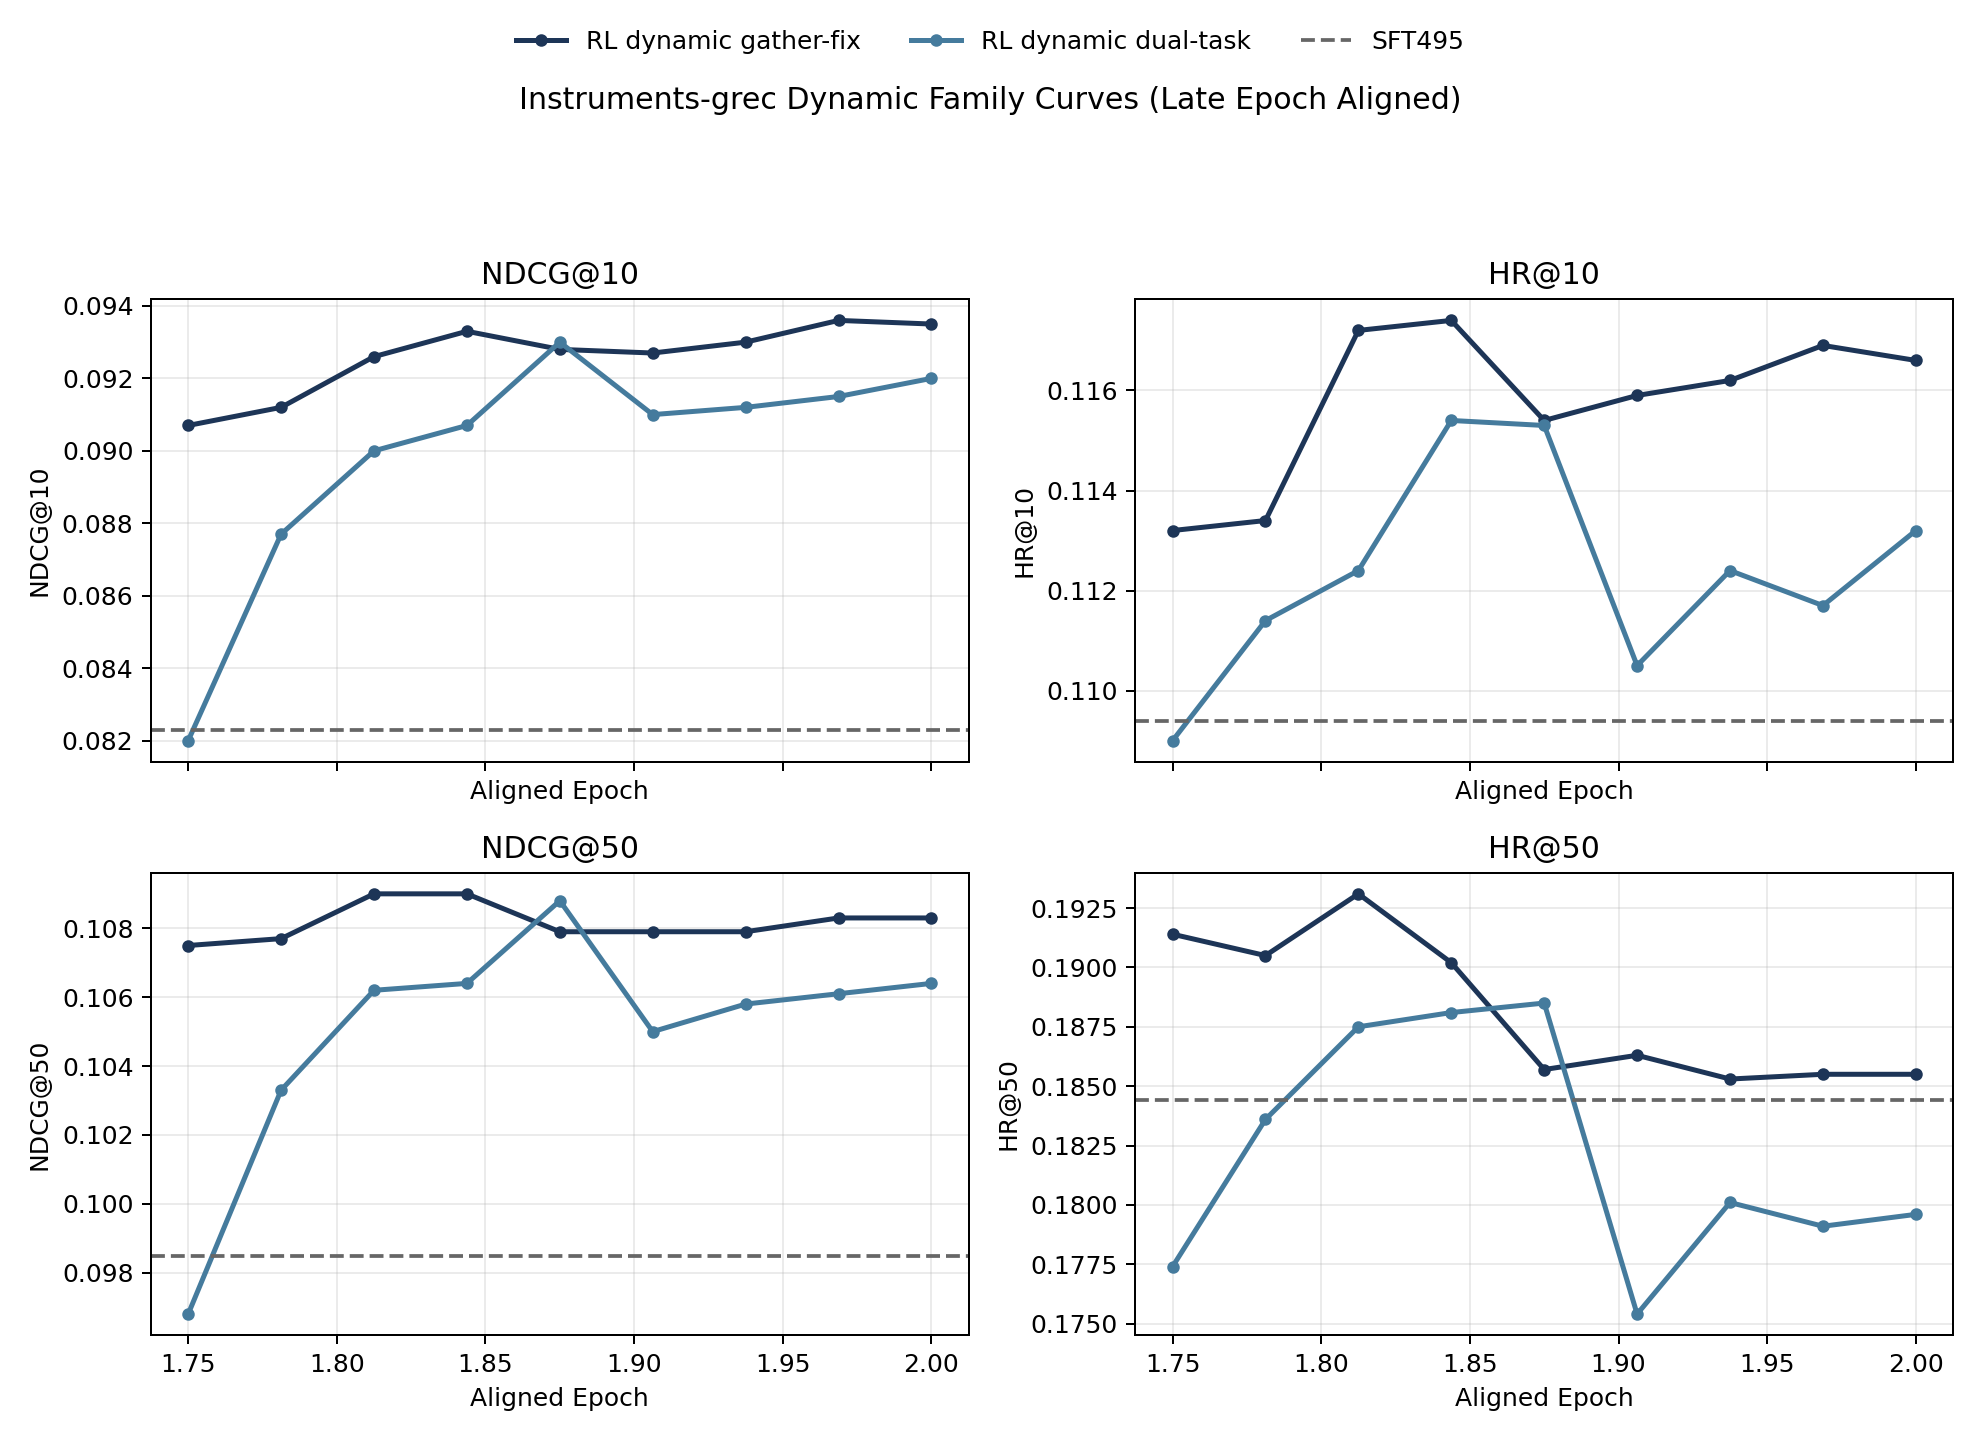
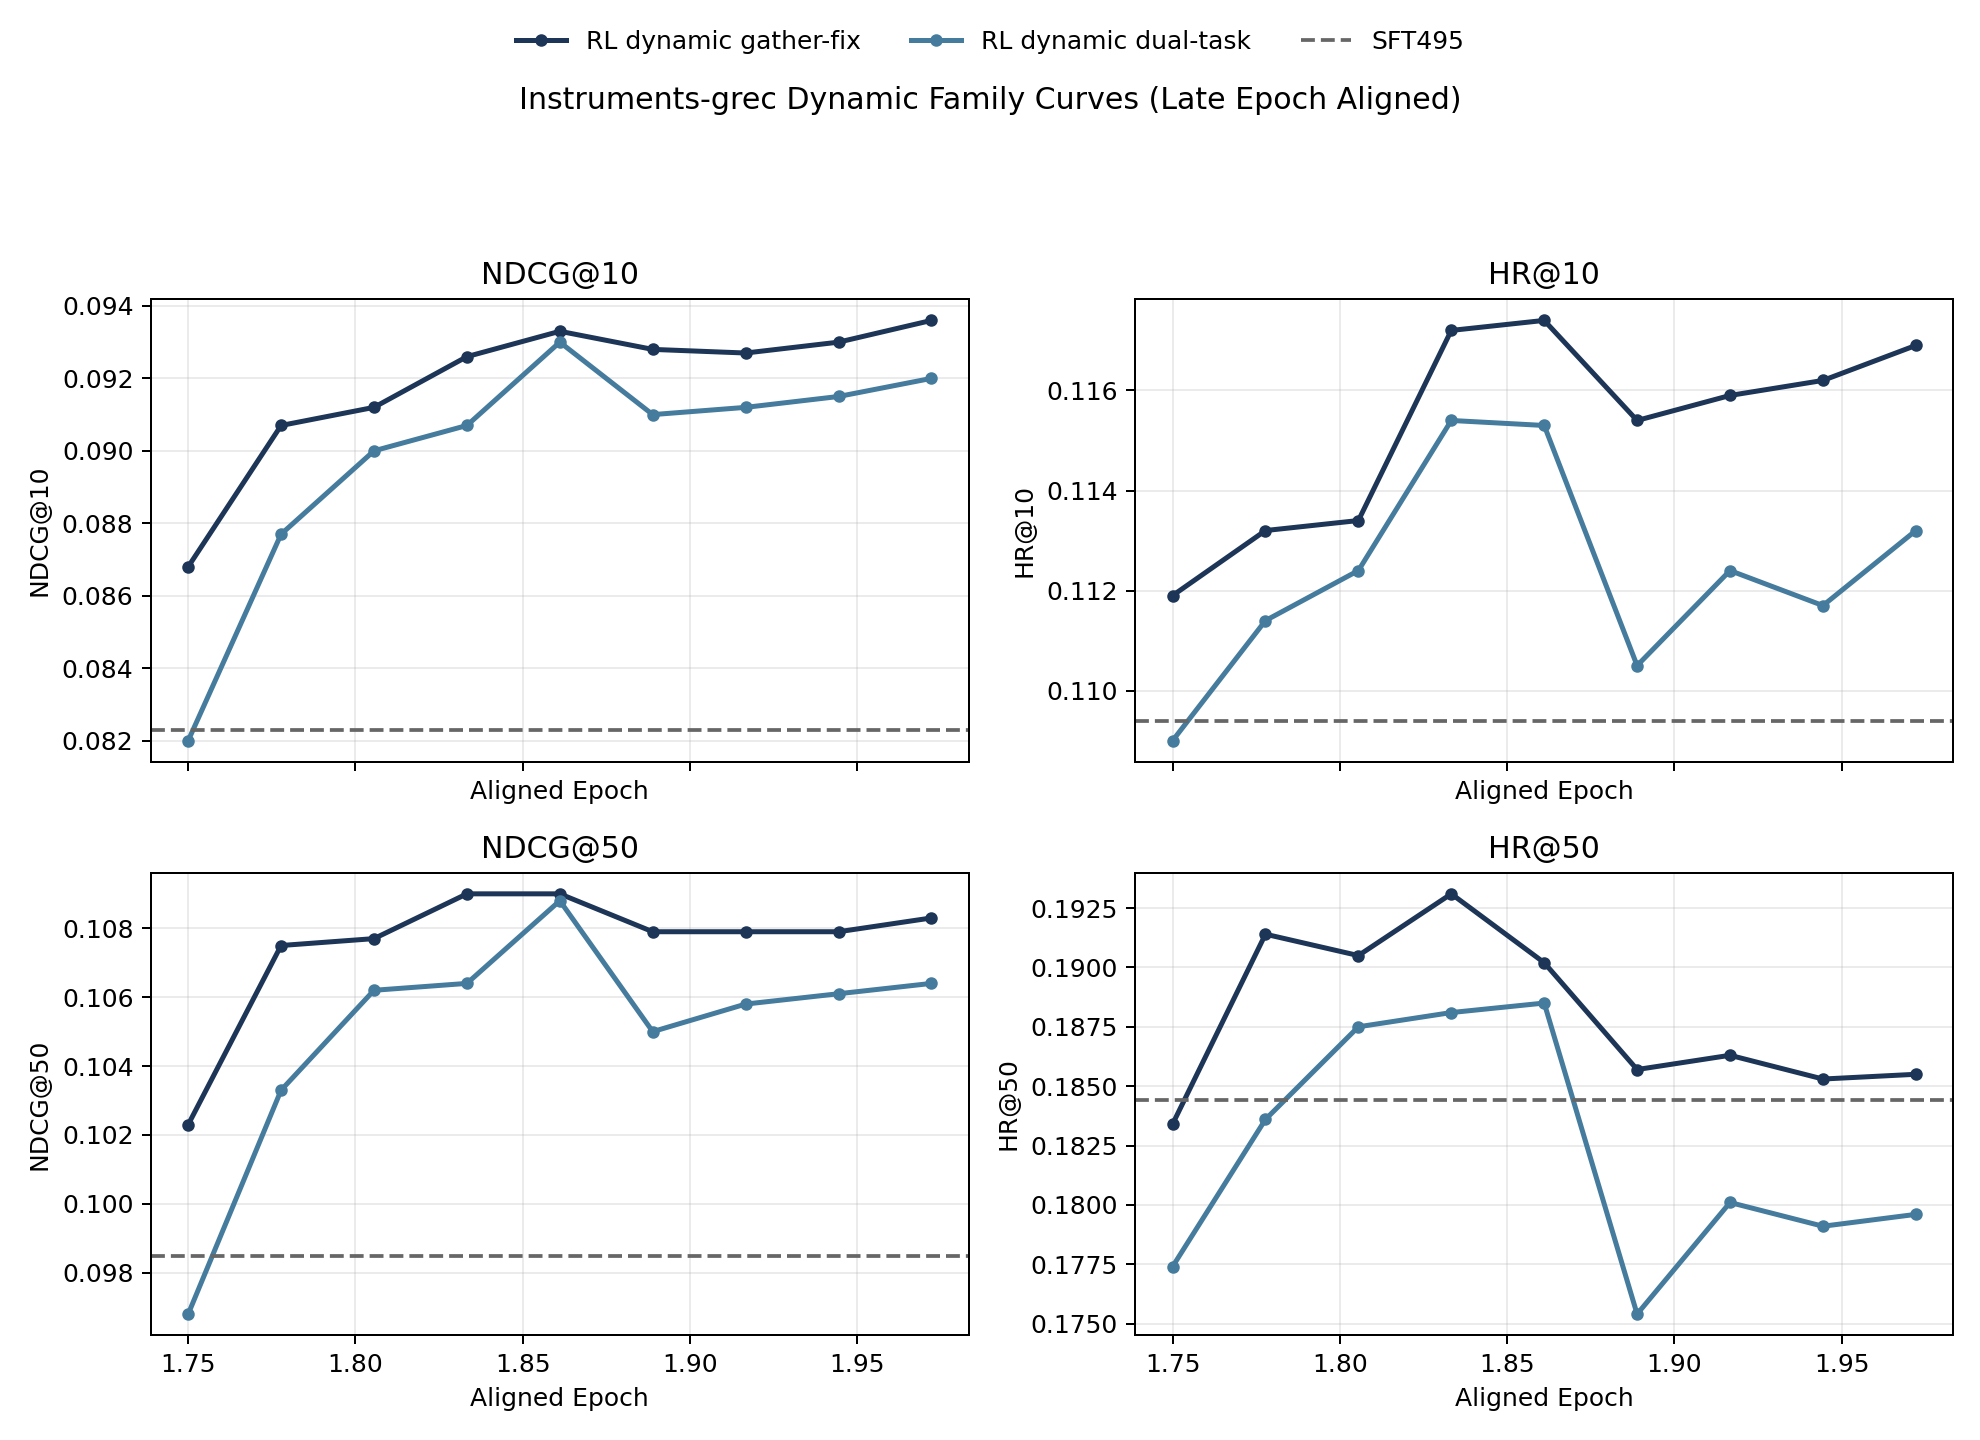
fix(reporting): drop pending final aligned slot

diff --git a/tests/test_generate_instruments_dual_task_single_hint_assets.py b/tests/test_generate_instruments_dual_task_single_hint_assets.py
@@ -90,7 +90,7 @@ class GenerateInstrumentsDualTaskSingleHintAssetsTests(unittest.TestCase):
             self.assertEqual(sid_only_last["max_step"], 2652)
             self.assertAlmostEqual(sid_only_last["epoch_progress"], 2.0, places=6)
 
-    def test_late_alignment_uses_dynamic_dual_point_count_and_tail_order(self):
+    def test_late_alignment_uses_generated_prefix_and_keeps_final_slot_pending(self):
         module = _load_module()
 
         rows = []
@@ -141,13 +141,13 @@ class GenerateInstrumentsDualTaskSingleHintAssetsTests(unittest.TestCase):
         self.assertEqual(len(dynamic_dual_df), 9)
         self.assertEqual(dynamic_dual_df["step"].tolist(), [302, 604, 906, 1208, 1510, 1812, 2114, 2416, 2718])
         self.assertAlmostEqual(dynamic_dual_df.iloc[0]["aligned_epoch"], 1.75, places=6)
-        self.assertAlmostEqual(dynamic_dual_df.iloc[-1]["aligned_epoch"], 2.0, places=6)
+        self.assertAlmostEqual(dynamic_dual_df.iloc[-1]["aligned_epoch"], 1.9722222222222223, places=6)
 
         single_hint_df = aligned_df[aligned_df["variant_key"] == "single_hint_mixed"].sort_values("aligned_epoch")
         self.assertEqual(len(single_hint_df), 9)
-        self.assertEqual(single_hint_df["step"].tolist(), [666, 999, 1332, 1665, 1998, 2331, 2664, 2997, 3326])
+        self.assertEqual(single_hint_df["step"].tolist(), [333, 666, 999, 1332, 1665, 1998, 2331, 2664, 2997])
         self.assertAlmostEqual(single_hint_df.iloc[0]["aligned_epoch"], 1.75, places=6)
-        self.assertAlmostEqual(single_hint_df.iloc[-1]["aligned_epoch"], 2.0, places=6)
+        self.assertAlmostEqual(single_hint_df.iloc[-1]["aligned_epoch"], 1.9722222222222223, places=6)
 
     def test_family_variant_groups_match_expected(self):
         module = _load_module()

diff --git a/scripts/reporting/generate_instruments_dual_task_single_hint_assets.py b/scripts/reporting/generate_instruments_dual_task_single_hint_assets.py
@@ -72,6 +72,7 @@ FIXED_FAMILY_KEYS = ["fixed_old", "fixed_taskfix", "fixed_taskfix_sid_only", "si
 LATE_ALIGNMENT_REFERENCE_KEY = "dynamic_dual_task"
 LATE_ALIGNMENT_EPOCH_START = 1.75
 LATE_ALIGNMENT_EPOCH_END = 2.0
+LATE_ALIGNMENT_PENDING_FINAL_SLOT = True
 
 
 def _variant_map() -> dict[str, dict[str, object]]:
@@ -162,15 +163,16 @@ def build_late_aligned_dataframe(
         raise ValueError(f"Missing reference variant for late alignment: {reference_key}")
 
     point_count = len(reference_df)
-    aligned_epochs = _build_epoch_grid(point_count, epoch_start, epoch_end)
+    alignment_slot_count = point_count + 1 if LATE_ALIGNMENT_PENDING_FINAL_SLOT else point_count
+    aligned_epochs = _build_epoch_grid(alignment_slot_count, epoch_start, epoch_end)[:point_count]
     rows: list[dict[str, object]] = []
 
     for variant_key in df["variant_key"].unique():
-        variant_df = df[df["variant_key"] == variant_key].sort_values("step").tail(point_count).reset_index(drop=True)
+        variant_df = df[df["variant_key"] == variant_key].sort_values("step").head(point_count).reset_index(drop=True)
         if variant_df.empty:
             continue
 
-        variant_epochs = aligned_epochs[-len(variant_df) :]
+        variant_epochs = aligned_epochs[: len(variant_df)]
         for idx, (_, row) in enumerate(variant_df.iterrows(), start=1):
             out_row = row.to_dict()
             out_row["aligned_epoch"] = variant_epochs[idx - 1]

diff --git a/docs/2026-04-19-instruments-dual-task-single-hint-tracking.md b/docs/2026-04-19-instruments-dual-task-single-hint-tracking.md
@@ -148,7 +148,7 @@
 
 - `dynamic dual-task` 已有 `checkpoint-302/604/906/1208/1510/1812/2114/2416/2718` 这 `9` 个 checkpoint
 - raw full-trace 口径现在按它自己的 `2718 step = 2 epoch` 去算，所以这条线的 `epoch_progress` 是 `0.222 -> 2.000`，不会再被别的 run 的总 ckpt 压扁
-- 如果要做共同 late-window 对比，则看新增的 `late_epoch_aligned_*` 资产：它把各条线最后 `9` 个 readout 映射到共同的 `aligned_epoch=1.75 -> 2.0`，此时 epoch 对齐，但 checkpoint 不要求对齐
+- 如果要做共同 late-window 对比，则看新增的 `late_epoch_aligned_*` 资产：它只对齐当前已经生成出来的前 `9` 个 slot，并把它们映射到共同的 `aligned_epoch=1.75 -> 1.9722`；最后一个 `2.0` slot 仍视为 pending。这里是 epoch 对齐，但 checkpoint 不要求对齐
 - `fixed dual-task` 仍待同步
 - 后续仍然可以把两条线并列跟踪，不用再改主 note 结构
 
@@ -226,18 +226,18 @@
 - [`single_hint_vs_baselines_late_epoch_aligned_curves.png`](/Users/fanghaotian/Desktop/src/GenRec/docs/assets/2026-04-19-instruments-dual-task-single-hint-tracking/single_hint_vs_baselines_late_epoch_aligned_curves.png)
 - [`single_hint_vs_dynamic_family_late_epoch_aligned_curves.png`](/Users/fanghaotian/Desktop/src/GenRec/docs/assets/2026-04-19-instruments-dual-task-single-hint-tracking/single_hint_vs_dynamic_family_late_epoch_aligned_curves.png)
 
-这组图不是 raw `epoch_progress`，而是专门为当前 `dynamic dual-task` 的 `9` 个 readout 做的比较轴：
+这组图不是 raw `epoch_progress`，而是专门为当前 `dynamic dual-task` 的 `9` 个已生成 readout 做的比较轴：
 
 - 把 `dynamic dual-task` 现有 `9` 个 checkpoint 当作锚点数。
-- 各条线都取自己最后 `9` 个 readout。
-- 再把这 `9` 个点统一映射到 `aligned_epoch=1.75 -> 2.0`。
-- 所以这里是 epoch 对齐，但 checkpoint 不要求对齐。
+- 各条线都只取与这 `9` 个已生成 slot 对应的前缀点；如果最后一个 terminal slot 还没生成，就不把它硬塞进来。
+- 再把这 `9` 个点统一映射到 `aligned_epoch=1.75 -> 1.9722`。
+- 所以这里是 epoch 对齐，但 checkpoint 不要求对齐；同时不会把一个还没生成的最后点硬映成 `2.0`。
 
 按这套 aligned 资产去读：
 
-- `dynamic dual-task` 在共同 late-window 轴上的 best 点仍是 `checkpoint-1510 @ aligned_epoch=1.875`。
-- `single-hint mixed` 在这套轴上的 best 点是 `checkpoint-2664 @ aligned_epoch=1.9375`，而最终尾点 `checkpoint-3326` 对应 `aligned_epoch=2.0`。
-- 这样看最大的好处是：`dynamic dual-task` 不会再因为别的 run 的总 ckpt 更长，而在 late-window 视角里被直接裁掉。
+- `dynamic dual-task` 在共同 late-window 轴上的 best 点仍是 `checkpoint-1510 @ aligned_epoch=1.8611`。
+- `single-hint mixed` 在这套轴上的 best 点是 `checkpoint-2664 @ aligned_epoch=1.9444`；当前 aligned 资产只用到 `checkpoint-2997 @ aligned_epoch=1.9722`，不会提前消费 terminal `checkpoint-3326`。
+- 这样看最大的好处是：`dynamic dual-task` 不会再因为别的 run 的总 ckpt 更长，而在 late-window 视角里被直接裁掉；同时也不会把“还没生成的最后一个点”假装成已经对齐好的 `2.0`。
 
 ### 4.4 Fixed Family
 

diff --git a/docs/progress.md b/docs/progress.md
@@ -113,7 +113,7 @@
   它现在在 `checkpoint-2664` 已经同时压过 corrected `fixed taskfix sid-only` 的 `NDCG@10` 和 `HR@50`，而且到完整尾点 `checkpoint-3326` 仍维持 `HR@50=0.1951`，因此已经是需要认真对待的主候选。
 - `dynamic dual-task` 现在更像一条“已经可比较、但还没赢 baseline”的完整首轮轨迹：
   raw full-trace best 点是 `checkpoint-1510 / epoch=1.111 / NDCG@10=0.0930 / HR@50=0.1885`；
-  若看和其它 run 的共同 late-window 对齐资产，则按 `9` 个点映射到 `aligned_epoch=1.75 -> 2.0`，checkpoint 不要求对齐。
+  若看和其它 run 的共同 late-window 对齐资产，则当前只对齐已生成的前 `9` 个 slot，对应 `aligned_epoch=1.75 -> 1.9722`，最后一个 `2.0` slot 仍 pending，checkpoint 不要求对齐。
 
 ### 当前最值得继续做的事
 
